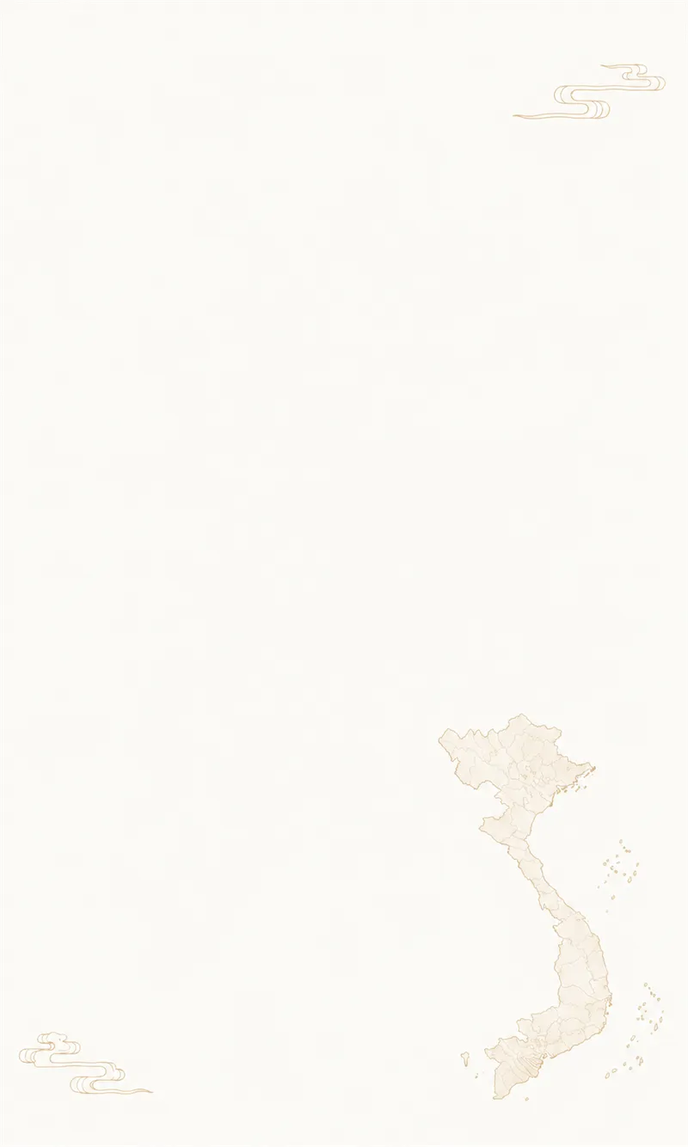
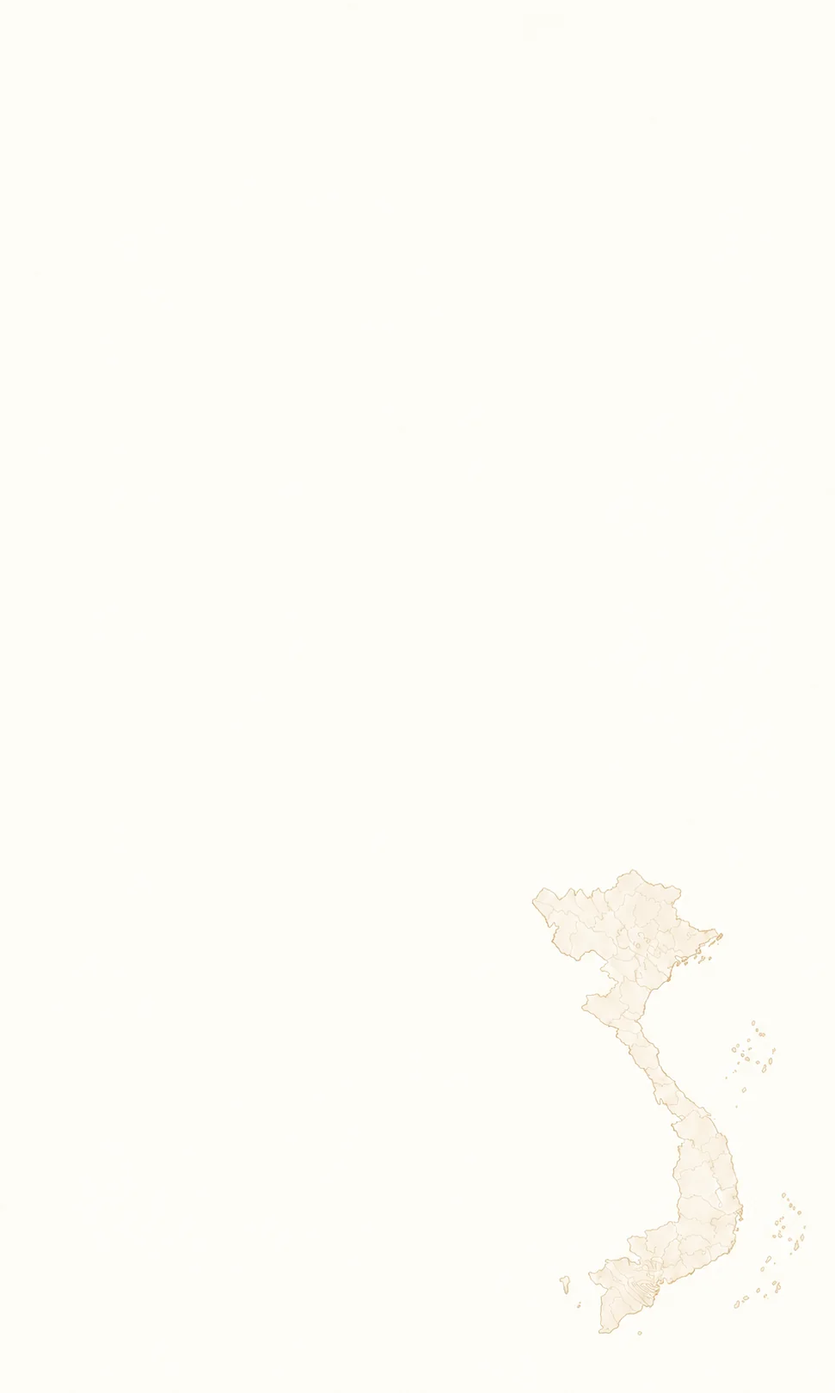
update: update tour itineraries, backgrounds, navigation and UI formatting

diff --git a/src/lib/data.ts b/src/lib/data.ts
@@ -499,21 +499,21 @@ export const tours: Tour[] = [
         itinerary: [
           {
             day: 1,
-            title: 'Ha Giang → Khau Lan Waterfall → Twin Mountains → Duong Thuong → Lung Ho → Du Gia',
-            summary: '• Breakfast at hostel, complete payment and prepare luggage\n• Meet tour guide, receive itinerary briefing and tour overview before starting the journey\n• Arrive at Khau Lan Waterfall, explore landscapes and experience swimming\n• Have lunch at a local home, savoring authentic regional cuisine\n• Continue journey through Duong Thuong – Lung Ho, admiring the majestic Ha Giang mountains and forests\n• Stop at Fairy Twin Mountains (Nui Doi Co Tien) for panoramic views and photos\n• Continue journey towards Du Gia, arrive at Du Gia Waterfall area to explore and experience\n• Check in homestay and relax in Du Gia',
+            title: 'Khau Lan Waterfall → Twin Mountains → Duong Thuong\n→ Lung Ho → Du Gia',
+            summary: 'Start your day with breakfast at our homestay. After breakfast, you will check out, make the payment, and prepare your luggage for the trip. Then, our tour guide will introduce the itinerary and the places we will visit. The tour officially begins.\n• Explore and enjoy swimming at Khau Lan Waterfall, a peaceful natural spot surrounded by beautiful mountains.\n• Have lunch at a local family’s house and enjoy traditional local food.\n• Stop at Twin Mountains to take photos and enjoy the beautiful scenery of Ha Giang.\n• Visit Du Gia Waterfall, one of the famous natural attractions in Ha Giang. Enjoy the fresh air, beautiful landscape, and peaceful atmosphere.\nThe first night of the trip will be spent at a homestay in Du Gia, where you can relax and experience the local way of life.',
             highlights: ['Khau Lan Waterfall & swim', 'Authentic local lunch', 'Duong Thuong – Lung Ho route', 'Fairy Twin Mountains', 'Du Gia Waterfall', 'Du Gia Homestay'],
           },
           {
             day: 2,
-            title: 'Du Gia → Ngoc Long River → Lung Phin → Ma Pi Leng Pass → Dong Van',
-            summary: '• Depart from Du Gia towards Ngoc Long River area\n• Start the bamboo boat experience on the river and explore the cave with optional swimming\n• Enjoy a unique lunch directly on the bamboo boat\n• Continue journey through Lung Phin, taking in views and learning about local life\n• Arrive at Ma Pi Leng Pass, exploring one of Vietnam\'s most legendary mountain passes\n• Experience Sky Walk (optional hike)\n• Continue travelling towards Dong Van, check in homestay and explore Dong Van Ancient Town by night',
-            highlights: ['Ngoc Long River bamboo boat', 'Cave exploration & swimming', 'Lunch on bamboo boat', 'Lung Phin village life', 'Ma Pi Leng Pass', 'Sky Walk experience', 'Dong Van Ancient Town'],
+            title: 'Du Gia → Ngoc Long River → Lung Phin → Ma Pi Leng Pass\n→ Dong Van',
+            summary: 'The second day of the trip offers amazing landscapes and exciting activities for you to enjoy.\n• Enjoy a relaxing bamboo boat trip on the river, surrounded by beautiful natural scenery.\n• Continue the journey into a natural cave, where you can explore the cave and enjoy swimming in the clear water.\n• Have a special lunch on the bamboo boat while enjoying the peaceful surroundings.\n• Explore the majestic Ma Pi Leng Pass, one of the most impressive mountain passes\nin Ha Giang.\n• If you want more adventure, you can take a challenging walk to conquer the Sky Walk and enjoy breathtaking views from above.\n• Stop and relax in Dong Van Town. In the evening, explore Dong Van Old Quarter, enjoy the local atmosphere, and discover the town at night.',
+            highlights: ['Ngoc Long River bamboo boat', 'Cave exploration & swimming', 'Lunch on bamboo boat', 'Lung Phin village life', 'Ma Pi Leng Pass', 'Sky Walk experience', 'Dong Van Old Quarter'],
           },
           {
             day: 3,
-            title: 'Dong Van → H\'Mong King Palace → Tham Ma Pass → Lao Chai → Lao Xa → Ha Giang',
-            summary: '• Check out and begin the return journey to Ha Giang\n• Visit H\'Mong King Palace (Dinh Thu Vua Meo), discovering its history and unique architecture\n• Depart towards Tham Ma Pass and stop for photos and panoramic views\n• Continue journey towards Lao Chai and Lao Xa, exploring H\'Mong culture, daily life, and traditional silversmithing\n• Begin return trip back to Ha Giang City and conclude journey at Odyssey Hostel',
-            highlights: ['H\'Mong King Palace (Dinh Thu Vua Meo)', 'Tham Ma Pass photo stop', 'Lao Chai cultural experience', 'Lao Xa traditional silversmithing', 'Odyssey Hostel'],
+            title: 'Dong Van → Vuong Family Mansion → Tham Ma Pass\n→ Lao Chai → Ha Giang',
+            summary: 'On the final day, we will visit some famous destinations on the way back to Ha Giang.\n• Explore the Vuong Family Mansion, also known as the Hmong King’s Palace, and discover its unique and impressive architecture.\n• Stop at the famous Tham Ma Pass to take photos and enjoy the beautiful mountain views.\n• Experience the local culture of the H’Mong people in Lao Chai Village and learn more about their traditional way of life.\n• Visit Lao Xa Village, where you can meet local people and learn about the long-standing traditional silver-making craft.\nWe will finish our journey at Odyssey Hostel in Ha Giang.',
+            highlights: ['Vuong Family Mansion (Hmong King Palace)', 'Tham Ma Pass', 'Lao Chai Village', 'Lao Xa Village & Silversmithing', 'Odyssey Hostel'],
           },
         ],
       },
@@ -526,27 +526,27 @@ export const tours: Tour[] = [
         itinerary: [
           {
             day: 1,
-            title: 'Ha Giang → Khau Lan Waterfall → Twin Mountains → Duong Thuong → Lung Ho → Du Gia',
-            summary: '• Breakfast at hostel, complete payment and prepare luggage\n• Meet tour guide, receive itinerary briefing and tour overview before starting the journey\n• Arrive at Khau Lan Waterfall, explore landscapes and experience swimming\n• Have lunch at a local home, savoring authentic regional cuisine\n• Continue journey through Duong Thuong – Lung Ho, admiring mountain scenery\n• Stop at Fairy Twin Mountains (Nui Doi Co Tien) for panoramic views and photos\n• Continue journey towards Du Gia, explore and experience Du Gia Waterfall\n• Check in homestay and relax in Du Gia',
-            highlights: ['Khau Lan Waterfall & swim', 'Authentic local lunch', 'Duong Thuong – Lung Ho route', 'Fairy Twin Mountains', 'Du Gia Waterfall', 'Du Gia Homestay'],
+            title: 'Khau Lan Waterfall → Twin Mountains → Duong Thuong\n→ Lung Ho → Du Gia',
+            summary: 'Start your day with breakfast at our homestay. After breakfast, you will check out, make the payment, and prepare your luggage for the journey. Our tour guide will then introduce the itinerary and the places we will visit. The tour officially begins.\n• Explore and enjoy swimming at Khau Lan Waterfall.\n• Have lunch at a local family’s house and enjoy traditional local food.\n• Stop at the Twin Mountains to take photos and enjoy the beautiful scenery.\n• Visit Du Gia Waterfall, one of the famous natural attractions in Ha Giang.\nThe first night will be spent at a homestay in Du Gia, where you can relax and\nexperience local life.',
+            highlights: ['Khau Lan Waterfall & swim', 'Local family lunch', 'Twin Mountains photo stop', 'Du Gia Waterfall', 'Du Gia Homestay'],
           },
           {
             day: 2,
-            title: 'Du Gia → Ngoc Long River → Lung Phin → Ma Pi Leng Pass → Dong Van',
-            summary: '• Depart from Du Gia towards Ngoc Long River\n• Arrive at Ngoc Long River area, start bamboo boat experience on the river and explore the cave with optional swimming\n• Enjoy lunch directly on the bamboo boat\n• Continue journey through Lung Phin, taking in scenic views and learning about local life\n• Explore Ma Pi Leng Pass, admiring the majestic limestone karst landscape\n• Experience Sky Walk (optional hike)\n• Depart towards Dong Van town, check in homestay and explore Dong Van Ancient Town by night',
-            highlights: ['Ngoc Long River bamboo boat', 'Cave exploration & swimming', 'Lunch on bamboo boat', 'Lung Phin village life', 'Ma Pi Leng Pass', 'Sky Walk experience', 'Dong Van Ancient Town'],
+            title: 'Du Gia → Ngoc Long River → Lung Phin → Ma Pi Leng Pass\n→ Dong Van',
+            summary: 'The second day offers beautiful landscapes and exciting activities throughout the journey.\n• Enjoy a bamboo boat trip on the river and admire the surrounding scenery.\n• Continue into a natural cave, where you can explore and enjoy swimming.\n• Have a special lunch on the bamboo boat while enjoying the peaceful surroundings.\n• Explore the majestic Ma Pi Leng Pass, one of the most impressive mountain passes\nin Ha Giang.\n• If you are looking for more adventure, you can take a challenging walk to the Sky Walk and enjoy breathtaking mountain views.\n• Stop and relax in Dong Van Town and explore Dong Van Old Quarter in the evening.',
+            highlights: ['Bamboo boat trip', 'Cave swim & explore', 'Lunch on bamboo boat', 'Ma Pi Leng Pass', 'Sky Walk experience', 'Dong Van Old Quarter'],
           },
           {
             day: 3,
-            title: 'Dong Van → Lung Cu Flag Tower → H\'Mong King Palace → Tham Ma Pass → Yen Minh',
-            summary: '• Depart from Dong Van to Lung Cu Flag Tower atop Dragon Mountain, taking in northern border views\n• Depart for H\'Mong King Palace (Dinh Thu Vua Meo), exploring and learning about its architecture and history\n• Continue journey towards Tham Ma Pass and stop for photos and panoramic views\n• Depart towards Yen Minh, arrive in Yen Minh, check in homestay and relax',
-            highlights: ['Lung Cu Flag Tower', 'Dragon Mountain & border views', 'H\'Mong King Palace (Dinh Thu Vua Meo)', 'Tham Ma Pass photo stop', 'Yen Minh Homestay'],
+            title: 'Dong Van → Lung Cu Flag Tower → Vuong Family Mansion\n→ Tham Ma Pass → Yen Minh',
+            summary: 'Enjoy a full day of exciting experiences and discover the unique culture and landscapes\nof Ha Giang.\n• Explore Lung Cu Flag Tower, located on the top of Dragon Mountain, and enjoy the panoramic views.\n• Visit the Vuong Family Mansion, also known as the Hmong King’s Palace, and discover its unique architecture.\n• Stop at Tham Ma Pass to take memorable photos and enjoy the mountain scenery.\n• Continue to Yen Minh and relax after a day of exploring.',
+            highlights: ['Lung Cu Flag Tower', 'Dragon Mountain views', 'Vuong Family Mansion (Hmong King Palace)', 'Tham Ma Pass', 'Yen Minh'],
           },
           {
             day: 4,
-            title: 'Yen Minh → Lao Chai → Lung Tam Weaving Village → Po Ly Cave → Ha Giang',
-            summary: '• Check out and begin the journey\n• Travel to Lao Chai, explore the landscapes and learn about local culture\n• Visit Lung Tam weaving village, discovering traditional linen weaving craft\n• Continue journey to Po Ly Cave, discovering natural cave formations\n• Leave the cave and stop at scenic mountain viewpoints on the return route\n• Arrive back in Ha Giang City and conclude journey at Odyssey Hostel',
-            highlights: ['Lao Chai cultural experience', 'Lung Tam traditional weaving', 'Po Ly Cave exploration', 'Scenic viewpoints', 'Odyssey Hostel'],
+            title: 'Yen Minh → Lao Chai → Lung Tam Traditional Weaving Village\n→ Po Ly Cave → Ha Giang',
+            summary: 'On the final day, discover a traditional weaving village and explore a natural cave before returning to Ha Giang.\n• Visit Lao Chai and enjoy the beautiful mountain scenery and local atmosphere.\n• Explore Lung Tam Traditional Weaving Village and learn about the long-standing weaving traditions of the local people.\n• Discover Po Ly Cave, a natural cave with interesting rock formations.\n• Stop at several scenic viewpoints along the way and enjoy the beautiful landscapes\nof Ha Giang.\nOur journey will end at Odyssey Hostel in Ha Giang.',
+            highlights: ['Lao Chai Village', 'Lung Tam Traditional Weaving', 'Po Ly Cave exploration', 'Scenic viewpoints', 'Odyssey Hostel'],
           },
         ],
       },
@@ -627,33 +627,33 @@ export const tours: Tour[] = [
         itinerary: [
           {
             day: 1,
-            title: 'Ha Giang → Khau Lan Waterfall → Lung Tam Weaving Village → Du Gia Waterfall → Du Gia',
-            summary: '• Breakfast at hostel, complete payment, check and prepare luggage\n• Meet Easy Rider / guide, receive itinerary briefing and begin the journey\n• Arrive at and explore Khau Lan Waterfall\n• Enjoy lunch at a local home featuring authentic regional cuisine\n• Visit Lung Tam weaving village, learn about traditional H\'Mong linen-making culture and processes\n• Continue journey toward Du Gia area, explore and experience Du Gia Waterfall\n• Check in homestay and relax in Du Gia',
-            highlights: ['Khau Lan Waterfall', 'Local indigenous lunch', 'Lung Tam Linen Village', 'Du Gia Waterfall', 'Du Gia Homestay'],
+            title: 'Ha Giang → Khau Lan Waterfall → Lung Tam Weaving Village\n→ Du Gia',
+            summary: 'Start your day with breakfast at our homestay. After breakfast, you will complete the check-out process, check your luggage, and prepare for the journey. If you choose the Easy Rider option, you will meet your driver and tour guide. They will introduce the itinerary and explain the places we will visit during the trip.\n• Explore Khau Lan Waterfall and enjoy the beautiful natural surroundings.\n• Have lunch at a local family’s house and enjoy traditional local food.\n• Visit the Lung Tam Weaving Village, a long-standing village of the H’Mong people. Learn about their culture and how they create beautiful handmade products using traditional linen weaving techniques.\n• Visit Du Gia Waterfall, one of the famous natural attractions in Ha Giang.\nThat evening, we will stay at a beautiful homestay in Du Gia and relax after the first day of the journey.',
+            highlights: ['Khau Lan Waterfall', 'Local family lunch', 'Lung Tam Weaving Village', 'Du Gia Waterfall', 'Du Gia Homestay'],
           },
           {
             day: 2,
-            title: 'Du Gia → Ngoc Long → Cave Boat Ride → Mountain Trails → Dong Van',
-            summary: '• Depart from Du Gia toward Ngoc Long\n• Begin bamboo boat cruise along the river and venture into the cave with swimming experience (conditions permitting)\n• Enjoy lunch directly on the bamboo boat\n• Continue along scenic trails, taking in mountain forests and local life\n• Head toward Dong Van town, check in homestay and explore Dong Van Ancient Town at night',
-            highlights: ['Bamboo boat on river', 'Cave swim', 'Lunch on bamboo boat', 'Scenic trails & panoramas', 'Dong Van Ancient Town'],
+            title: 'Du Gia → Ngoc Long → Cave Boat Trip → Mountain Trails',
+            summary: 'The second day takes you through beautiful landscapes and interesting mountain roads that will leave a strong impression.\n• Enjoy a bamboo boat trip on the river and admire the surrounding scenery.\n• Continue into a natural cave, where you can explore and enjoy swimming.\n• Enjoy a special meal on the bamboo boat while surrounded by nature.\n• Experience local mountain trails built and used by local people, while enjoying the beautiful landscapes along the way.\n• Stop and relax in Dong Van Town and explore Dong Van Old Quarter in the evening.',
+            highlights: ['Bamboo boat trip', 'Cave swim & explore', 'Meal on bamboo boat', 'Local mountain trails', 'Dong Van Old Quarter'],
           },
           {
             day: 3,
-            title: 'Dong Van → Ma Pi Leng Pass → Bao Lac → 15-Tier Me Pia Pass → Na Tenh Pass → Pac Bo',
-            summary: '• Depart from Dong Van to explore Ma Pi Leng Pass and admire magnificent limestone landscapes\n• Experience Sky Walk (optional activity)\n• Continue journey toward Bao Lac, conquering scenic mountain passes across Cao Bang\n• Explore the legendary 15-Tier Me Pia Pass\n• Continue over Na Tenh Pass, taking in mountain vistas\n• Arrive in Pac Bo, check in homestay and rest',
-            highlights: ['Ma Pi Leng Pass', 'Sky Walk hike', 'Bao Lac', '15-Tier Me Pia Pass', 'Na Tenh Pass', 'Pac Bo Homestay'],
+            title: 'Dong Van → Ma Pi Leng Pass → Bao Lac → 15-Tier Pass\n→ Na Teanh Pass → Pac Bo',
+            summary: 'The third day takes you through spectacular mountain landscapes and challenging\nmountain passes.\n• Explore the majestic Ma Pi Leng Pass, one of the most impressive mountain passes in northern Vietnam.\n• If you want more adventure, take a challenging walk to the Sky Walk and enjoy breathtaking views.\n• Travel through the impressive mountain passes of Cao Bang and discover the beautiful landscapes of the region.\nStop and relax in Pac Bo after an exciting day on the road.',
+            highlights: ['Ma Pi Leng Pass', 'Sky Walk experience', '15-Tier Pass & Na Teanh Pass', 'Pac Bo Homestay'],
           },
           {
             day: 4,
-            title: 'Pac Bo → Tra Linh Buffalo Market → Trung Khanh → Ban Gioc Waterfall → Ban Gioc',
-            summary: '• Depart from Pac Bo and visit Tra Linh Buffalo Market, discovering highland ethnic culture and life\n• Continue journey toward Trung Khanh, exploring wild natural landscapes and forested mountains\n• Arrive at Ban Gioc Waterfall for sightseeing, photography, and enjoying the grandeur of the waterfall\n• Transfer to Ban Gioc homestay, check in and rest',
+            title: 'Pac Bo → Tra Linh Buffalo Market → Trung Khanh\n→ Ban Gioc Waterfall',
+            summary: 'On the fourth day, we will explore the natural beauty and local culture of Cao Bang.\n• Visit the Tra Linh Buffalo Market, where you can experience the unique culture and daily life of the local people in the highlands.\n• Explore Trung Khanh and admire its impressive mountains and natural landscapes.\n• Enjoy the beautiful scenery of Ban Gioc Waterfall, one of the most famous natural attractions in Cao Bang.\nStop and relax at a homestay near Ban Gioc Waterfall.',
             highlights: ['Tra Linh Buffalo Market', 'Trung Khanh landscapes', 'Ban Gioc Waterfall', 'Ban Gioc Homestay'],
           },
           {
             day: 5,
-            title: 'Ban Gioc → Nguom Ngao Cave → God\'s Eye Mountain (Nui Mat Than) → Cao Bang City',
-            summary: '• Check out and depart from Ban Gioc\n• Visit Nguom Ngao Cave, exploring the stalactite system and interior cave wonders\n• Depart for God\'s Eye Mountain (Nui Mat Than) for sightseeing, scenic viewing, and photography\n• Begin journey toward Cao Bang City and conclude the 5-day 4-night tour',
-            highlights: ['Nguom Ngao Cave', 'God\'s Eye Mountain (Nui Mat Than)', 'Cao Bang City farewell'],
+            title: 'Ban Gioc → Nguom Ngao Cave → Angel Eye Mountain\n→ Cao Bang City',
+            summary: 'On the final day, let’s discover some of the most famous attractions in Cao Bang.\n• Explore Nguom Ngao Cave and admire its impressive rock formations.\n• Visit Angel Eye Mountain and enjoy its unique natural scenery.\nEnd the journey in Cao Bang City.',
+            highlights: ['Nguom Ngao Cave', 'Angel Eye Mountain', 'Cao Bang City farewell'],
           },
         ],
       },
@@ -669,39 +669,39 @@ export const tours: Tour[] = [
         itinerary: [
           {
             day: 1,
-            title: 'Ha Giang → Khau Lan Waterfall → Lung Tam Weaving Village → Du Gia Waterfall → Du Gia',
-            summary: '• Breakfast at hostel, complete payment, check and prepare luggage\n• Meet Easy Rider / guide, receive itinerary briefing and begin the journey\n• Arrive at Khau Lan Waterfall, explore the landscape and take photos\n• Enjoy lunch at a local home, tasting authentic regional dishes\n• Visit Lung Tam weaving village, discovering H\'Mong culture and traditional linen-weaving processes\n• Continue journey to Du Gia, explore and experience Du Gia Waterfall\n• Check in at homestay and relax in Du Gia',
-            highlights: ['Khau Lan Waterfall', 'Local indigenous lunch', 'Lung Tam Linen Village', 'Du Gia Waterfall', 'Du Gia Homestay'],
+            title: 'Ha Giang → Khau Lan Waterfall → Lung Tam Weaving Village\n→ Du Gia',
+            summary: 'Start your day with breakfast at our homestay. After breakfast, you will complete the check-out process, check your luggage, and prepare for the journey. If you choose the Easy Rider option, you will meet your driver and tour guide. They will introduce the itinerary and explain the places we will visit during the trip.\n• Explore Khau Lan Waterfall and enjoy the beautiful natural surroundings.\n• Have lunch at a local family’s house and enjoy traditional local food.\n• Visit Lung Tam Weaving Village, a long-standing village of the H’Mong people. Learn about their culture and discover how they create beautiful handmade products using traditional linen weaving techniques.\n• Visit Du Gia Waterfall, one of the famous natural attractions in Ha Giang.\nThat evening, we will stay at a beautiful homestay in Du Gia and relax after the first day of the journey.',
+            highlights: ['Khau Lan Waterfall', 'Local family lunch', 'Lung Tam Weaving Village', 'Du Gia Waterfall', 'Du Gia Homestay'],
           },
           {
             day: 2,
-            title: 'Du Gia → Ngoc Long → Bamboo Boat → Caves → Mountain Trails → Dong Van',
-            summary: '• Depart from Du Gia toward Ngoc Long\n• Begin bamboo boat cruise along the river and explore the cave with swimming opportunities (conditions permitting)\n• Savor a special lunch experience directly on the bamboo boat\n• Continue along scenic mountain trails, viewing mountain forests and local life\n• Head toward Dong Van center town, check in homestay and explore Dong Van Ancient Town at night',
-            highlights: ['Bamboo boat on river', 'Cave swim', 'Lunch on bamboo boat', 'Scenic trails & panoramas', 'Dong Van Ancient Town'],
+            title: 'Du Gia → Ngoc Long → Cave Boat Trip → Mountain Trails',
+            summary: 'The second day takes you through beautiful landscapes and interesting mountain roads.\n• Enjoy a bamboo boat trip on the river and admire the surrounding scenery.\n• Continue into a natural cave, where you can explore and enjoy swimming.\n• Enjoy a special meal on the bamboo boat while surrounded by nature.\n• Experience local mountain trails and discover paths built and used by local people while enjoying the beautiful scenery.\n• Stop and relax in Dong Van Town and explore Dong Van Old Quarter in the evening.',
+            highlights: ['Bamboo boat trip', 'Cave swim & explore', 'Meal on bamboo boat', 'Local mountain trails', 'Dong Van Old Quarter'],
           },
           {
             day: 3,
-            title: 'Dong Van → Ma Pi Leng Pass → Bao Lac → 15-Tier Me Pia Pass → Na Tenh Pass → Pac Bo',
-            summary: '• Depart from Dong Van to explore Ma Pi Leng Pass and admire magnificent karst canyons\n• Experience Sky Walk (optional activity)\n• Continue journey heading toward Bao Lac and scenic mountain passes of Cao Bang\n• Explore the legendary 15-Tier Me Pia Pass\n• Continue over Na Tenh Pass with scenic mountain vistas\n• Arrive in Pac Bo, check in homestay and relax',
-            highlights: ['Ma Pi Leng Pass', 'Sky Walk hike', 'Bao Lac', '15-Tier Me Pia Pass', 'Na Tenh Pass', 'Pac Bo Homestay'],
+            title: 'Dong Van → Ma Pi Leng Pass → Bao Lac → 15-Tier Pass\n→ Na Teanh Pass → Pac Bo',
+            summary: 'The third day takes you through spectacular mountain landscapes and challenging\nmountain passes.\n• Explore the majestic Ma Pi Leng Pass and enjoy breathtaking views of the mountains.\n• If you want more adventure, take a challenging walk to the Sky Walk.\n• Travel through the impressive mountain passes of Cao Bang and discover the beautiful landscapes of the region.\nStop and relax in Pac Bo after an exciting day on the road.',
+            highlights: ['Ma Pi Leng Pass', 'Sky Walk hike', '15-Tier Pass & Na Teanh Pass', 'Pac Bo Homestay'],
           },
           {
             day: 4,
-            title: 'Pac Bo → Tra Linh Buffalo Market → Trung Khanh → Ban Gioc Waterfall → Ban Gioc',
-            summary: '• Depart from Pac Bo and visit Tra Linh Buffalo Market, learning about highland ethnic culture and lifestyle\n• Continue journey to Trung Khanh, exploring wild natural mountain landscapes\n• Arrive at Ban Gioc Waterfall for sightseeing, photography, and enjoying the grandeur of Ban Gioc Waterfall\n• Transfer to homestay, check in and rest',
+            title: 'Pac Bo → Tra Linh Buffalo Market → Trung Khanh\n→ Ban Gioc Waterfall',
+            summary: 'On the fourth day, we will explore the natural beauty and local culture of Cao Bang.\n• Visit the Tra Linh Buffalo Market and experience the unique culture of the local\nhighland communities.\n• Explore Trung Khanh and admire its impressive mountains and natural scenery.\n• Enjoy the beautiful landscape of Ban Gioc Waterfall, one of the most famous natural attractions in Cao Bang.\nStop and relax at a homestay near Ban Gioc Waterfall.',
             highlights: ['Tra Linh Buffalo Market', 'Trung Khanh landscapes', 'Ban Gioc Waterfall', 'Ban Gioc Homestay'],
           },
           {
             day: 5,
-            title: 'Ban Gioc → Nguom Ngao Cave → God\'s Eye Mountain (Nui Mat Than) → Ba Be Lake',
-            summary: '• Complete check-out and begin a scenic long-distance travel day\n• Explore Nguom Ngao Cave, admiring vast stalactite systems and subterranean marvels\n• Depart for God\'s Eye Mountain (Nui Mat Than / Angel Eye Mountain) for sightseeing, photography, and marveling at the unique scenery\n• Continue journey toward Ba Be National Park, arrive in Ba Be area, check in homestay and rest',
-            highlights: ['Nguom Ngao Cave', 'God\'s Eye Mountain (Nui Mat Than)', 'Ba Be National Park', 'Ba Be Lake Homestay'],
+            title: 'Ban Gioc → Nguom Ngao Cave → Angel Eye Mountain\n→ Ba Be',
+            summary: 'This will be the longest day of the journey, with many beautiful places to discover.\n• Explore Nguom Ngao Cave and admire its impressive rock formations.\n• Visit Angel Eye Mountain and enjoy its unique natural scenery.\n• Continue the journey to Ba Be and relax after a long day of exploration.',
+            highlights: ['Nguom Ngao Cave', 'Angel Eye Mountain', 'Ba Be Lake'],
           },
           {
             day: 6,
-            title: 'Ba Be Lake → Freshwater Lake & Cave Boat Tour → Hanoi',
-            summary: '• Begin boat tour to explore Ba Be Lake, cruising across the lake and exploring freshwater caves\n• Enjoy lunch on the lake featuring delicious local specialties\n• Rest, prepare luggage, and board sleeper bus for the return trip to Hanoi\n• Estimated arrival in Hanoi and conclude the unforgettable 6-day 5-night expedition',
-            highlights: ['Ba Be Lake boat tour', 'Freshwater cave exploration', 'Lunch on lake', 'Sleeper bus to Hanoi'],
+            title: 'Ba Be Lake → Hanoi',
+            summary: 'Enjoy a relaxing day exploring Ba Be Lake, one of the largest natural freshwater lakes in Vietnam.\n• Explore the lake and nearby caves by boat.\n• Have lunch on the lake and enjoy local specialties.\n• After the tour, board a sleeper bus and travel back to Hanoi.\nThis marks the end of our 6-day Ha Giang – Cao Bang – Ba Be adventure.',
+            highlights: ['Ba Be Lake boat tour', 'Cave exploration', 'Lunch on lake', 'Sleeper bus to Hanoi'],
           },
         ],
       },

diff --git a/src/components/layout/Navbar.tsx b/src/components/layout/Navbar.tsx
@@ -14,6 +14,7 @@ const links = [
   { to: '/rentalbikes', label: 'Rental Bikes' },
   { to: '/blog', label: 'Blog' },
   { to: '/faq', label: 'FAQ' },
+  { to: '/terms', label: 'Terms & Conditions' },
   { to: '/contact', label: 'Contact' },
 ];
 
@@ -46,9 +47,9 @@ export function Navbar() {
       >
         <nav
           aria-label="Primary"
-          className="mx-auto flex w-full max-w-[1240px] items-center justify-between gap-6 px-5 sm:px-8 lg:px-10"
+          className="mx-auto flex w-full max-w-[1240px] items-center justify-between gap-4 px-5 sm:px-8 lg:px-10"
         >
-          <Link to="/" className="flex items-center gap-3" aria-label="Odyssey — home">
+          <Link to="/" className="flex items-center gap-3 shrink-0" aria-label="Odyssey — home">
             {/* Solid navbar → coloured logo (logo.webp) cropped to circle
                 Transparent navbar (dark hero) → no-background logo with thin circular border */}
             {solid ? (
@@ -93,7 +94,7 @@ export function Navbar() {
                   to={link.to}
                   className={({ isActive }) =>
                     cn(
-                      'relative rounded-full px-3.5 py-2 text-[14px] font-medium tracking-wide transition-colors duration-300',
+                      'relative rounded-full px-2.5 2xl:px-3.5 py-2 text-[13px] 2xl:text-[14px] font-medium tracking-wide transition-colors duration-300',
                       solid
                         ? isActive
                           ? 'text-forest-500'
@@ -111,7 +112,7 @@ export function Navbar() {
                         <motion.span
                           layoutId="nav-active"
                           className={cn(
-                            'absolute inset-x-3.5 -bottom-0.5 h-px',
+                            'absolute inset-x-2.5 2xl:inset-x-3.5 -bottom-0.5 h-px',
                             solid ? 'bg-forest-500' : 'bg-gold-300'
                           )}
                           transition={{ duration: 0.5, ease: [0.22, 1, 0.36, 1] }}

diff --git a/src/pages/TourDetail.tsx b/src/pages/TourDetail.tsx
@@ -439,7 +439,7 @@ export function TourDetail() {
                         <span className="sm:hidden font-display text-3xl text-gold-400 leading-none block mb-3">
                           {String(day.day).padStart(2, '0')}
                         </span>
-                        <h3 className="font-display text-lg leading-snug text-ink sm:text-xl">
+                        <h3 className="font-display text-lg leading-snug text-ink sm:text-xl whitespace-pre-line">
                           {day.title}
                         </h3>
                         {day.distance && (

diff --git a/src/components/sections/GalleryPreview.tsx b/src/components/sections/GalleryPreview.tsx
@@ -19,6 +19,7 @@ export function GalleryPreview() {
       tone="transparent"
       aria-labelledby="gallery-title"
       style={{
+        backgroundColor: '#fefdf7',
         backgroundImage: "url('/backgrounds_section/background-GalleryPreview.webp')",
         backgroundSize: 'auto 100%',
         backgroundPosition: 'center top',
